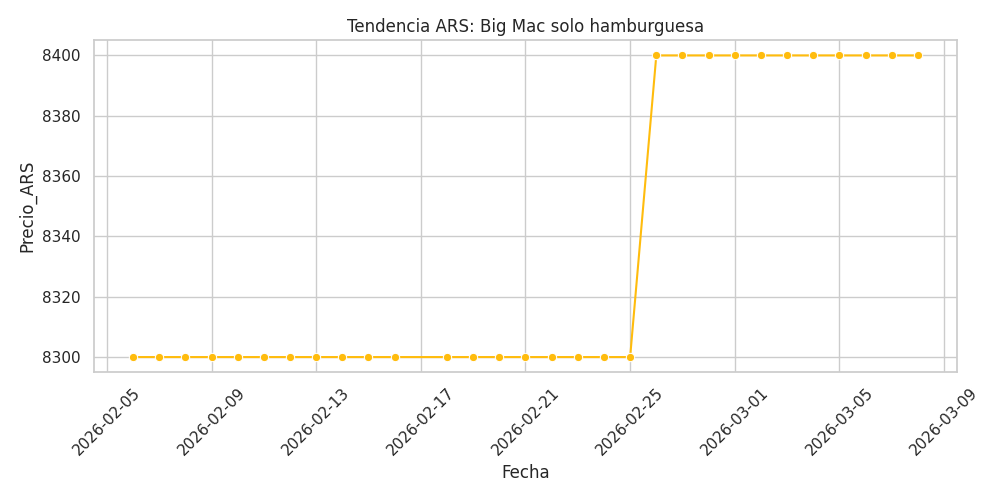
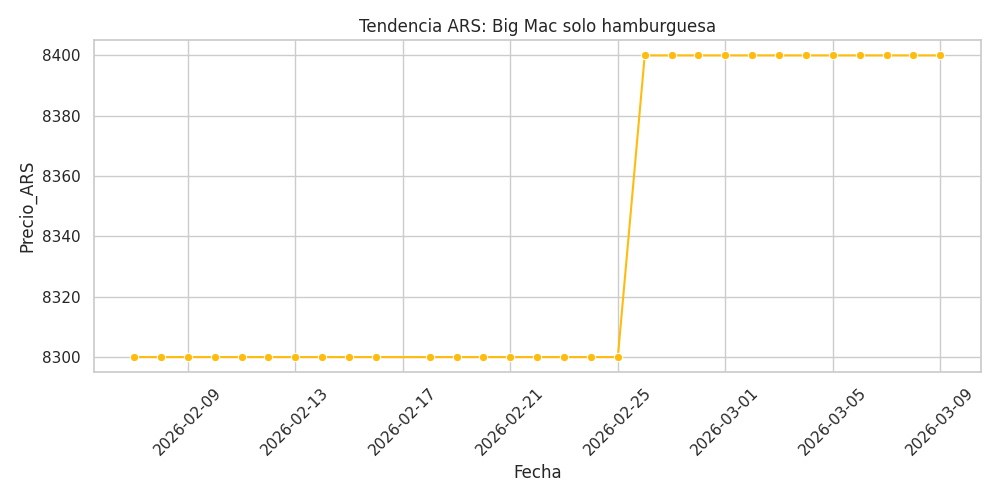
Update prices and Dashboard (daily scan)

diff --git a/docs/index.html b/docs/index.html
@@ -33,6 +33,6 @@
         </div></div>
         <h2>Histórico (Últimos 30 días)</h2>
         <div class="grid"><div class="chart-box"><h4>Big Mac Combo</h4><img src="charts/trend_0.png"></div><div class="chart-box"><h4>Big Mac solo hamburguesa</h4><img src="charts/trend_1.png"></div></div>
-        <footer>Generado el 08/03/2026 19:34 | Sistema Legacy Curiosities</footer>
+        <footer>Generado el 09/03/2026 13:45 | Sistema Legacy Curiosities</footer>
     </body>
     </html>
